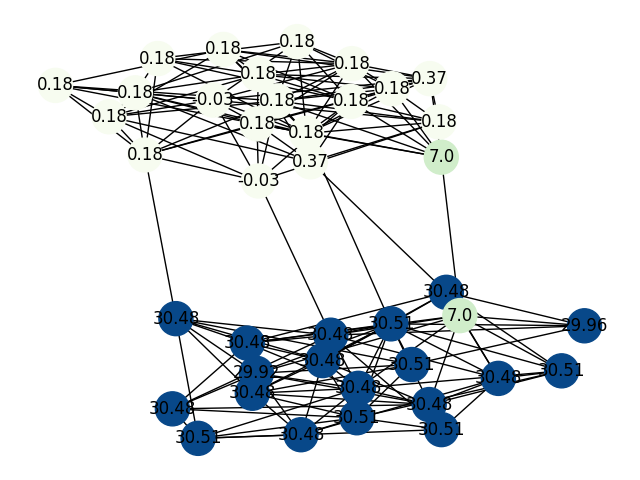
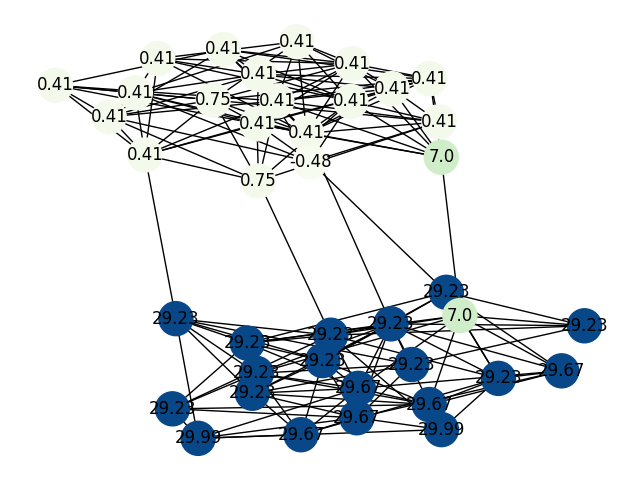
All polished, running and converging

diff --git a/main_copy.py b/main_copy.py
@@ -4,8 +4,10 @@ import warnings
 
 import networkx as nx
 import numpy as np
+from copy import deepcopy
 
 import functions_copy as fc
+import parameters
 from parameters import STOCHASTIC_BLOCK_MODEL, n, p, q, pQueryOracle, path, nCommunities
 
 # Suppress future warnings, comment if code not running due to  this
@@ -53,27 +55,30 @@ l = {}
 medianTotal = fc.mMedian(list(l.values()))
 medianOfMedian = fc.mMedian(median)
 
-print(f'The initial median: {median}\nThe global median: {medianTotal}'
-      f'\nThe median of medians: {medianOfMedian}')
+with open(path + 'paramsAndMedians.txt', 'w+') as f:
+    f.write(f'n of faulty nodes: {tf}'
+            f'\nN of nodes: {parameters.gSize}'
+            f'\nn of redundant nodes: {redNodes}'
+            f'\nThe initial median: {[round(m, 4) for m in median.copy()]}'
+            f'\nThe median of medians: {round(medianOfMedian.copy(), 4)}\n')
 
 "Calculate the potentials"
 print('Calculate the potentials...')
 community_potential = fc.get_comm_pot(goodValues, G)
 global_potential = fc.get_glob_pot(values, G, fn_indices)
 
+print(f'Obtain community median...')
 
-print(f'######################## Obtain community median ########################')
-
-condition_list = list(np.abs(community_potential[0]))
+condition = list(np.abs(community_potential[0]))
 for c in range(1, nCommunities):
-    condition_list += list(np.abs(community_potential[c]))
+    condition += list(np.abs(community_potential[c]))
 
 t, counter = 1, 0
 badValuesIdx = fn_indices[0]
 for c in range(nCommunities):
     badValuesIdx += fn_indices[c]
-while any(condition_list) > 0.001 and counter < 30 * int(math.log(n)):  # and distanceChange > 0.001:
-    temp, nodeAttributes = values.copy(), {}
+while any(condition) > 0.001 and counter < 30 * int(math.log(n)):  # and distanceChange > 0.001:
+    temp, nodeAttr = values.copy(), {}
     for x in list(G):
         neighVals = []
         if x not in badValuesIdx:
@@ -86,8 +91,8 @@ while any(condition_list) > 0.001 and counter < 30 * int(math.log(n)):  # and di
                     temp[c].update({x: med})
                     goodValues[c].update({x: med})
     for c in range(nCommunities):
-        nodeAttributes.update(temp[c])
-    nx.set_node_attributes(G, nodeAttributes, 'Values')
+        nodeAttr.update(temp[c])
+    nx.set_node_attributes(G, nodeAttr, 'Values')
     fc.display_graph(G, t, 'Graph_iter', path)
 
     values = temp
@@ -95,66 +100,62 @@ while any(condition_list) > 0.001 and counter < 30 * int(math.log(n)):  # and di
     # Update potentials
     community_potential = fc.get_comm_pot(goodValues, G)
 
-    condition_list = []
+    condition = []
     for c in range(nCommunities):
-        condition_list += list(np.abs(community_potential[c]))
+        condition += list(np.abs(community_potential[c]))
 
     t += 1
     counter += 1
 
+median = [fc.mMedian(list(values[i].values())) for i in range(nCommunities)]
+
+"Save Data to files"
 fc.save_data(values, 'Community Medians.csv')
+with open(path + 'paramsAndMedians.txt', 'a') as f:
+    f.write(f'The final medians: {[round(m, 4) for m in median]}\n')
 
+print('Data saved to file.')
 
-print(f'############################### Obtaining the external medians ###############################')
+print(f'Obtain the external medians...')
 
 otherG = G.copy()
 tSecond = 0
 threshold = {}
 
-# x_b, x_b_goodValues, nodeAttributes = deepcopy(values), [], {}
-# temp_b = deepcopy(values)
-# for c in range(nCommunities):
-#     threshold[c] = fc.mMedian(list(values[c].values()))
-#
-# x_b = fc.update_step(otherG, x_b, threshold, temp_b, x_b_goodValues, badValuesIdx, tSecond, redNodes)
-#
-# community_potential = fc.calculate_community_potential(x_b_goodValues, otherG)
-# global_potential = fc.calculate_global_potential(x_b_goodValues, otherG)
-#
-# condition_list = []
-# for c in range(nCommunities):
-#     condition_list += list(np.abs(community_potential[c]))
-#     threshold[c] = fc.mMedian(list(values[c].values()))
-#     nodeAttributes.update(x_b[c])
-#
-# nx.set_node_attributes(otherG, nodeAttributes, 'Values')
-# fc.display_graph(otherG, tSecond, 'OtherCommunity_iter', path)
-#
-# counter = 0
-# while any(condition_list) > 0.01 and counter < 3 * int(math.log(n)):  # and distanceChange > 0.001:
-#     temp_b, x_b_goodValues, nodeAttributes = deepcopy(x_b), [], {}
-#     x_b = fc.update_step(otherG, x_b, threshold, temp_b, x_b_goodValues, badValuesIdx, tSecond, redNodes)
-#
-#     community_potential = fc.calculate_community_potential(x_b_goodValues, otherG)
-#     global_potential = fc.calculate_global_potential(x_b_goodValues, otherG)
-#
-#     condition_list = []
-#     for c in range(nCommunities):
-#         condition_list += list(np.abs(community_potential[c]))
-#         nodeAttributes.update(x_b[c])
-#     nx.set_node_attributes(otherG, nodeAttributes, 'Values')
-#     fc.display_graph(otherG, tSecond, 'OtherCommunity_iter', path)
-#
-#     tSecond += 1
-#     counter += 1
-#
-# b = otherG.nodes.data(True)
-# print(b)
-# # data1 = [b[i][0] for i in range(len(b))]
-# # data2 = [b[i][1]['Values'] for i in range(len(b))]
-# # data = [data1, data2]
-# data = [[b[i][0], b[i][1]['Values']] for i in range(len(b))]
-# myDf = pandas.DataFrame(data, index=False)
-# pandas.to_excel(myDf, "./DecOutputs/GraphAttrib.xlsx")
-#
-# # print(f'The global potential: {global_potential}')  # TODO: Cris do not delete this
+goodValsOther, nodeAttr = [], {}
+valsOther = deepcopy(values)
+threshold = deepcopy(median)
+
+valsOther = fc.update_step(otherG, valsOther, threshold, goodValsOther,
+                           badValuesIdx, tSecond, redNodes)
+
+community_potential = fc.get_comm_pot(goodValsOther, otherG)
+
+condition = []
+for c in range(nCommunities):
+    condition += list(np.abs(community_potential[c]))
+    nodeAttr.update(valsOther[c])
+
+nx.set_node_attributes(otherG, nodeAttr, 'Values')
+fc.display_graph(otherG, tSecond, 'OtherCommunity_iter', path)
+
+counter = 0
+while any(condition) > 0.001 and counter < 3 * int(math.log(n)):  # and distanceChange > 0.001:
+    temp_b = deepcopy(valsOther),
+    goodValsOther, nodeAttr = [], {}
+    valsOther = fc.update_step(otherG, valsOther, threshold,
+                               goodValsOther, badValuesIdx, tSecond, redNodes)
+
+    community_potential = fc.get_comm_pot(goodValsOther, otherG)
+
+    condition = []
+    for c in range(nCommunities):
+        condition += list(np.abs(community_potential[c]))
+        nodeAttr.update(valsOther[c])
+    nx.set_node_attributes(otherG, nodeAttr, 'Values')
+    fc.display_graph(otherG, tSecond, 'OtherCommunity_iter', path)
+
+    tSecond += 1
+    counter += 1
+
+fc.save_data(valsOther, 'Other Community Medians.csv')

diff --git a/functions_copy.py b/functions_copy.py
@@ -13,7 +13,7 @@ from itertools import islice
 
 import parameters
 from parameters import gSize, nCommunities, \
-    mu, mu_bad, sigma, sigma_bad, n, path
+    mu, mu_bad, sigma, sigma_bad, n, path, thr, pQueryOracle
 
 
 # Clean the outputs folder or make a new one if it doesn't exist
@@ -156,51 +156,50 @@ def get_glob_pot(vals, mG, fnIdx):
     return pot
 
 
-def main_loop_old(mG, values, goodValues, fn_indices, condition_list):
-    t, counter = 1, 0
-    badValuesIdx = fn_indices[0]
-    for c in range(nCommunities):
-        badValuesIdx += fn_indices[c]
-    while any(condition_list) > 0.001 and counter < 30 * int(math.log(n)):  # and distanceChange > 0.001:
-        temp, nodeAttributes = values.copy(), {}
-        for x in list(mG):
-            neighVals = []
-            if x not in badValuesIdx:
-                neighbors = list(mG.adj[x])
-                for c in range(nCommunities):
-                    neighVals += [values[c][j] for j in neighbors if j in values[c].keys()]
-                for c in range(nCommunities):
-                    if x in values[c].keys():
-                        med = majority_median(neighVals)
-                        temp[c].update({x: med})
-                        goodValues[c].update({x: med})
-        for c in range(nCommunities):
-            nodeAttributes.update(temp[c])
-        nx.set_node_attributes(mG, nodeAttributes, 'Values')
-        display_graph(mG, t, 'Graph_iter', path)
-
-        values = temp
-
-        # Update potentials
-        community_potential = calculate_community_potential(goodValues, mG)
-
-        condition_list = []
-        for c in range(nCommunities):
-            condition_list += list(np.abs(community_potential[c]))
-
-        t += 1
-        counter += 1
-
-        return community_potential, t, values
-
-
 def save_data(vals, mStr):
     data = {'Comm 0': [round(r, 4) for r in vals[0].values()]}
     for c in range(1, nCommunities):
         data.update({f'Comm {c}': [round(r, 4) for r in vals[c].values()]})
     df = pd.DataFrame(data)
-    # for c in range(1, nCommunities):
-    #     mStr = f'Comm {c}'
-    #     df[mStr] = list(vals[c].values())
     df.to_csv(path + mStr, index=False)
+
+
+def update_step(otherG, x_b, threshold, x_b_goodValues, bvi, tScnd, red):
+    temp_b = copy.deepcopy(x_b)
+    for x in list(otherG):
+        neighVals = {}
+        if x not in bvi:
+            neighbors = list(otherG.adj[x])
+            for c in range(nCommunities):
+                neighVals.update({j: x_b[c][j] for j in neighbors if j in x_b[c].keys()})
+
+            for c in range(nCommunities):
+                # Key part in here
+                if x in x_b[c].keys():
+                    x_b_goodValues.append({})
+                    otherCommunityVals = [k for k in neighVals.values() if
+                                          k != threshold[c]]
+
+                    if tScnd < thr:
+                        redundantVals = oracle_help(x, neighbors, otherG, red, x_b, pQueryOracle)
+                        otherCommunityVals += [k for k in redundantVals.values() if
+                                               k != threshold[c]]
+
+                    if otherCommunityVals:
+                        med = mMedian(otherCommunityVals)
+                    else:
+                        med = x_b[c][x]
+                    temp_b[c].update({x: med})
+                    x_b_goodValues[c].update({x: med})
+    return temp_b
+
+
+def oracle_help(node, neighs, oG, mRed, nodeVals, pQuery):
+    redundantValues = {}
+    if np.random.binomial(1, pQuery):
+        redundancyOptions = [i for i in list(oG) if i not in neighs + [node]]
+        redundantNodes = random.sample(redundancyOptions, mRed)
+        for c in range(nCommunities):
+            redundantValues.update({i: nodeVals[c][i] for i in redundantNodes if i in nodeVals[c].keys()})
+    return redundantValues
 
